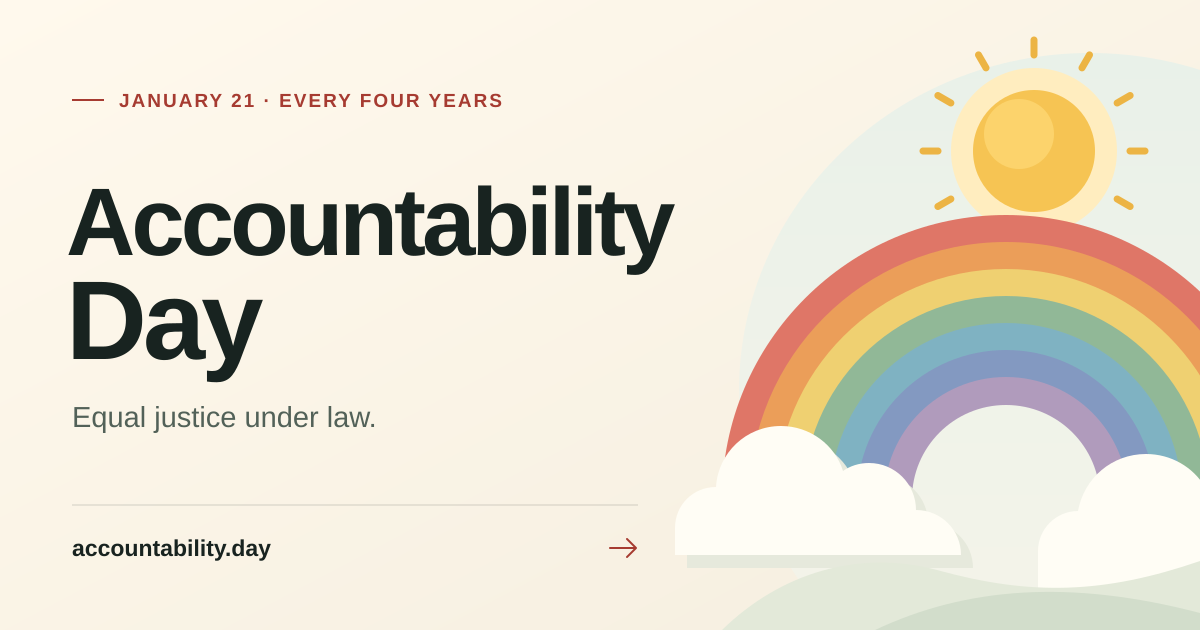
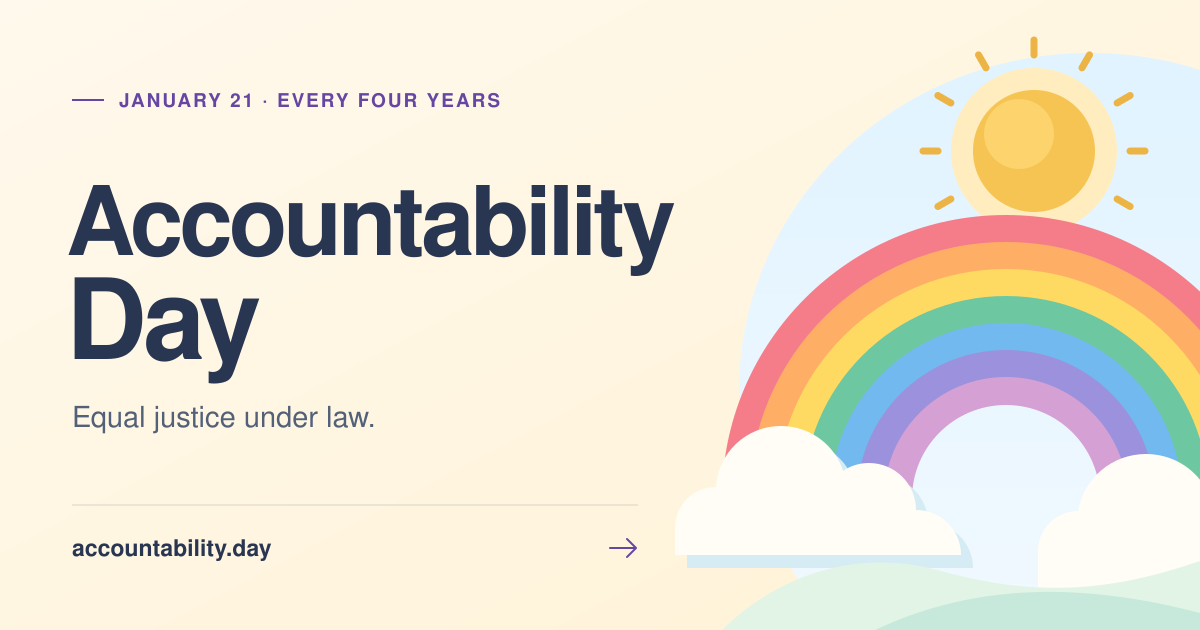
Brighten the site with sunshine and rainbow colors

diff --git a/styles.css b/styles.css
@@ -1,91 +1,112 @@
 :root {
-  --paper: #f2ecdf;
-  --ink: #17201e;
-  --red: #a63b31;
-  --sage: #687970;
-  --night: #182320;
-  --line: rgba(23, 32, 30, 0.25);
+  color-scheme: light;
+  --paper: #fff9ed;
+  --ink: #293652;
+  --muted: #526078;
+  --violet: #6546a3;
+  --coral: #b13f58;
+  --sunshine: #ffda62;
+  --sky: #e9f6ff;
+  --line: #cbd6e4;
+  --rainbow: linear-gradient(90deg, #f57d89, #ffae65, #ffda62, #6dc7a0, #71b9ee, #9b91dc, #d5a0d4);
   --font: Arial, Helvetica, sans-serif;
 }
 
 * { box-sizing: border-box; }
-html { scroll-behavior: smooth; }
+html { scroll-behavior: smooth; scroll-padding-top: 2rem; }
 body { margin: 0; background: var(--paper); color: var(--ink); font-family: var(--font); }
 a { color: inherit; }
+a:focus-visible { outline: 3px solid var(--violet); outline-offset: 6px; border-radius: 3px; }
 .skip-link { position: fixed; left: 1rem; top: -5rem; z-index: 10; padding: .8rem 1rem; background: var(--ink); color: white; }
 .skip-link:focus { top: 1rem; }
 
-.masthead { min-height: 88px; display: flex; align-items: center; justify-content: space-between; padding: 0 4vw; border-bottom: 1px solid var(--line); }
+.masthead { position: relative; min-height: 94px; display: flex; align-items: center; justify-content: space-between; gap: 2rem; padding: 6px 4vw 0; border-bottom: 1px solid var(--line); background: #fffef9; }
+.masthead::before { content: ""; position: absolute; inset: 0 0 auto; height: 6px; background: var(--rainbow); }
 .wordmark { display: flex; gap: .8rem; align-items: center; text-decoration: none; font-weight: 600; font-size: .88rem; letter-spacing: .05em; text-transform: uppercase; }
-.seal { display: grid; place-items: center; width: 34px; height: 34px; border: 1px solid var(--ink); border-radius: 50%; font-size: 1.3rem; }
+.seal { display: grid; place-items: center; flex: 0 0 40px; width: 40px; height: 40px; color: #b77400; }
+.seal svg { display: block; width: 100%; height: 100%; }
 nav { display: flex; gap: 2.2rem; }
 nav a { font-size: .76rem; letter-spacing: .09em; text-decoration: none; text-transform: uppercase; }
-nav a:hover, nav a:focus-visible { text-decoration: underline; text-underline-offset: .4rem; }
+nav a:hover, nav a:focus-visible { color: var(--violet); text-decoration: underline; text-underline-offset: .4rem; }
 
-.hero { min-height: calc(100vh - 88px); display: grid; grid-template-columns: minmax(0, 1.55fr) minmax(310px, .65fr); gap: 7vw; align-items: center; padding: clamp(4rem, 9vw, 9rem) 7vw; }
+.hero { position: relative; isolation: isolate; overflow: hidden; min-height: calc(100svh - 94px); display: grid; grid-template-columns: minmax(0, 1.55fr) minmax(280px, .65fr); gap: 7vw; align-items: center; padding: clamp(4rem, 9vw, 9rem) 7vw; background: linear-gradient(140deg, #fff9ed 20%, #fff7d9 55%, #e5f4ff 100%); }
+.hero-sky { position: absolute; z-index: -1; width: min(55vw, 700px); height: auto; top: 0; right: -2rem; pointer-events: none; }
 .eyebrow, .section-label, .date-card-top, .countdown, footer { text-transform: uppercase; letter-spacing: .1em; }
-.eyebrow { display: flex; align-items: center; gap: 1rem; color: var(--red); font-size: .72rem; }
-.eyebrow::before { content: ""; width: 3rem; border-top: 1px solid var(--red); }
+.eyebrow { display: flex; align-items: center; gap: 1rem; color: var(--violet); font-size: .72rem; font-weight: 600; line-height: 1.6; }
+.eyebrow::before { content: ""; flex: 0 0 2rem; height: 6px; border-radius: 99px; background: var(--rainbow); }
 h1, h2 { font-weight: 600; }
 h1 { max-width: 900px; margin: 1.5rem 0 2rem; font-size: clamp(2.5rem, 5.3vw, 5.5rem); line-height: 1.1; letter-spacing: -.025em; }
+h1 span { color: var(--violet); }
 .dek { max-width: 650px; font-size: clamp(1.125rem, 1.5vw, 1.25rem); line-height: 1.65; }
-.text-link { display: inline-block; margin-top: 2rem; font-size: .75rem; letter-spacing: .08em; text-transform: uppercase; text-underline-offset: .4rem; }
-.text-link span { margin-left: .5rem; color: var(--red); }
+.text-link { display: inline-flex; align-items: center; gap: 1rem; margin-top: 2rem; padding: 1rem 1.4rem; border: 1px solid #c6b4df; border-radius: 99px; background: #f0e6fc; color: #503184; font-size: .75rem; font-weight: 600; letter-spacing: .08em; text-transform: uppercase; text-decoration: none; box-shadow: 0 4px 0 #ddccef; }
+.text-link:hover { background: #e5d4f7; }
+.text-link span { font-size: 1.2rem; }
 
-.date-card { background: var(--night); color: var(--paper); padding: 1.4rem; box-shadow: 16px 16px 0 var(--red); transform: rotate(1deg); }
-.date-card-top { display: flex; justify-content: space-between; border-bottom: 1px solid rgba(242,236,223,.3); padding-bottom: 1rem; font-size: .62rem; }
+.date-card { position: relative; background: var(--sunshine); color: var(--ink); padding: 1.4rem; border: 1px solid #d4a834; border-radius: 20px; box-shadow: 9px 9px 0 #f6a8bb, 18px 18px 0 #bdb0e7; transform: rotate(2deg); }
+.date-card-top { display: flex; justify-content: space-between; gap: .7rem; border-bottom: 1px solid #b58a25; padding-bottom: 1rem; font-size: .62rem; line-height: 1.5; }
 .date-card time { display: grid; justify-items: center; padding: 2rem 0 2.5rem; }
 .month, .year { text-transform: uppercase; letter-spacing: .18em; }
 .month { font-size: 1rem; }
-.day { font-size: clamp(7rem, 12vw, 10rem); line-height: 1.1; font-weight: 600; color: #d55b4d; }
+.day { font-size: clamp(7rem, 12vw, 10rem); line-height: 1.1; font-weight: 600; color: #68419a; }
 .year { font-size: 1.5rem; }
-.countdown { display: flex; justify-content: space-between; border-top: 1px solid rgba(242,236,223,.3); padding-top: 1rem; font-size: .6rem; }
-.countdown strong { font-weight: 400; font-size: 1rem; }
+.countdown { display: flex; justify-content: space-between; gap: .7rem; border-top: 1px solid #b58a25; padding-top: 1rem; font-size: .6rem; }
+.countdown strong { font-weight: 600; font-size: 1rem; }
 .countdown, .day, .year { font-variant-numeric: tabular-nums; }
 
-.rule { display: flex; align-items: center; gap: 1rem; padding: 0 4vw; color: var(--red); }
-.rule span { flex: 1; border-top: 1px solid var(--line); }
+.rule { display: flex; align-items: center; gap: 1rem; padding: 1rem 4vw; color: var(--violet); }
+.rule span { flex: 1; height: 4px; border-radius: 99px; background: var(--rainbow); }
 .rule b { font-size: 1.5rem; }
-.declaration, .principles { display: grid; grid-template-columns: minmax(130px, .3fr) minmax(0, 1.4fr); gap: 5vw; padding: clamp(6rem, 12vw, 12rem) 7vw; }
-.section-label { font-size: .66rem; }
-.section-label span { display: block; color: var(--red); margin-bottom: 1rem; }
+.declaration, .principles { display: grid; grid-template-columns: minmax(130px, .3fr) minmax(0, 1.4fr); gap: 5vw; padding: clamp(5rem, 10vw, 10rem) 7vw; }
+.section-label { font-size: .66rem; line-height: 1.6; }
+.section-label span { display: block; color: var(--violet); font-weight: 600; margin-bottom: 1rem; }
 .section-label p { margin: 0; }
 .declaration h2, .principles h2 { margin: 0 0 2rem; font-size: clamp(2rem, 3.5vw, 3.75rem); line-height: 1.15; letter-spacing: -.02em; }
-.lead { max-width: 880px; margin: 0 0 5rem; font-size: clamp(1.25rem, 2vw, 1.65rem); line-height: 1.6; }
+.lead { max-width: 880px; margin: 0 0 4rem; font-size: clamp(1.25rem, 2vw, 1.65rem); line-height: 1.6; }
 .columns { columns: 2; column-gap: 4rem; max-width: 900px; }
 .columns p { break-inside: avoid; margin: 0; font-size: .95rem; line-height: 1.8; }
 
-.standard { background: var(--night); color: var(--paper); padding: clamp(6rem, 11vw, 10rem) 7vw; }
+.standard { background: var(--sky); color: var(--ink); padding: clamp(5rem, 10vw, 9rem) 7vw; border-block: 1px solid #c7e1ef; }
 .standard-intro { display: grid; grid-template-columns: minmax(130px, .3fr) minmax(0, 1.4fr); gap: 5vw; }
-.section-label.light span { color: #d55b4d; }
-.standard h2 { margin: 0 0 5rem; font-size: clamp(2rem, 3.5vw, 3.75rem); line-height: 1.15; letter-spacing: -.02em; }
-.steps { list-style: none; margin: 0 0 0 calc(20% + 5vw); padding: 0; border-top: 1px solid rgba(242,236,223,.25); }
-.steps li { display: grid; grid-template-columns: 70px 1fr; gap: 2rem; padding: 2rem 0; border-bottom: 1px solid rgba(242,236,223,.25); }
-.step-number { color: #d55b4d; font-size: 1.5rem; }
-.steps h3 { margin: 0 0 .6rem; font-size: 1.35rem; font-weight: 600; }
-.steps p { max-width: 650px; margin: 0; color: #c9c7bd; line-height: 1.7; }
+.standard h2 { margin: 0 0 4rem; font-size: clamp(2rem, 3.5vw, 3.75rem); line-height: 1.15; letter-spacing: -.02em; }
+.steps { list-style: none; margin: 0 0 0 calc(20% + 5vw); padding: 0; display: grid; gap: 1rem; }
+.steps li { --step-color: #b13f58; --step-tint: #ffe6eb; display: grid; grid-template-columns: 54px 1fr; gap: 1.5rem; padding: 2rem; border: 1px solid #c7dce9; border-left: 5px solid var(--step-color); border-radius: 16px; background: #fffef9; }
+.steps li:nth-child(2) { --step-color: #936000; --step-tint: #fff0be; }
+.steps li:nth-child(3) { --step-color: #23765b; --step-tint: #ddf4e9; }
+.steps li:nth-child(4) { --step-color: #6546a3; --step-tint: #eee5fa; }
+.step-number { display: grid; place-items: center; align-self: start; width: 48px; height: 48px; border-radius: 50%; background: var(--step-tint); color: var(--step-color); font-size: 1.2rem; }
+.steps h3 { margin: .3rem 0 .6rem; font-size: 1.35rem; font-weight: 600; }
+.steps p { max-width: 650px; margin: 0; color: var(--muted); line-height: 1.7; }
 
-.principles { padding-bottom: clamp(7rem, 14vw, 14rem); }
-.principle-grid { display: grid; grid-template-columns: 1fr 1fr; border-top: 1px solid var(--line); border-left: 1px solid var(--line); }
-.principle-grid article { min-height: 270px; padding: 2rem; border-right: 1px solid var(--line); border-bottom: 1px solid var(--line); }
-.principle-grid span { color: var(--red); font-size: .65rem; }
-.principle-grid h3 { margin: 3rem 0 1rem; font-size: 1.5rem; font-weight: 600; }
+.principles { background: #fffef9; }
+.principle-grid { display: grid; grid-template-columns: 1fr 1fr; gap: 1rem; }
+.principle-grid article { --tile-color: #b13f58; min-height: 270px; padding: 2rem; border: 1px solid #eabac4; border-top: 5px solid var(--tile-color); border-radius: 16px; background: #fff0f3; }
+.principle-grid article:nth-child(2) { --tile-color: #936000; border-color: #e5ce82; background: #fff6d6; }
+.principle-grid article:nth-child(3) { --tile-color: #23765b; border-color: #a5d5bf; background: #eaf8ef; }
+.principle-grid article:nth-child(4) { --tile-color: #6546a3; border-color: #d0bce9; background: #f2ebfc; }
+.principle-grid span { color: var(--tile-color); font-size: .7rem; font-weight: 600; }
+.principle-grid h3 { margin: 2.5rem 0 1rem; font-size: 1.5rem; font-weight: 600; }
 .principle-grid p { max-width: 330px; margin: 0; line-height: 1.6; }
 
-.closing { padding: clamp(7rem, 15vw, 15rem) 7vw; background: var(--red); color: var(--paper); text-align: center; }
+.closing { position: relative; padding: clamp(6rem, 12vw, 11rem) 7vw; background: linear-gradient(120deg, #ffe79b, #ffefd0 42%, #f6dce9 72%, #e5dcf7); color: var(--ink); text-align: center; }
+.closing::before { content: ""; position: absolute; inset: 0 0 auto; height: 7px; background: var(--rainbow); }
 .closing h2 { margin: 0; font-size: clamp(2.25rem, 4.5vw, 4.5rem); line-height: 1.2; letter-spacing: -.02em; }
-.closing p { margin: 3rem 0 0; font-size: .7rem; letter-spacing: .15em; text-transform: uppercase; }
-footer { display: grid; grid-template-columns: 1fr 2fr auto; gap: 2rem; padding: 2rem 4vw; background: #111816; color: var(--paper); font-size: .6rem; }
+.closing p { margin: 3rem 0 0; color: #503184; font-size: .85rem; font-weight: 600; letter-spacing: .15em; text-transform: uppercase; }
+footer { display: grid; grid-template-columns: 1fr 2fr auto; gap: 2rem; padding: 2rem 4vw; background: #eee5fa; color: #503184; font-size: .6rem; line-height: 1.6; }
 footer p { margin: 0; }
+footer a { text-underline-offset: .3rem; }
 
-.not-found { min-height: 100vh; display: grid; align-content: center; padding: 8vw; }
+.not-found { position: relative; isolation: isolate; min-height: 100svh; display: grid; align-content: center; justify-items: start; padding: 8vw; background: linear-gradient(140deg, #fff9ed, #e9f6ff); }
+.not-found::before { content: ""; position: absolute; z-index: -1; inset: 0; background: url("sunshine.svg") top right / min(50vw, 640px) auto no-repeat; opacity: .35; }
 .not-found h1 { max-width: 950px; }
 .not-found .dek { margin: 0; }
 
 @media (max-width: 800px) {
+  .masthead { min-height: 88px; }
   nav { display: none; }
-  .hero { min-height: auto; grid-template-columns: 1fr; padding: 5rem 7vw 7rem; }
-  .date-card { max-width: 440px; margin-top: 2rem; }
+  .hero { min-height: auto; grid-template-columns: 1fr; gap: 3rem; padding: 4rem 7vw 5rem; }
+  .hero-sky { width: min(90vw, 550px); top: auto; bottom: 12rem; right: -3rem; }
+  .hero-copy { position: relative; }
+  .date-card { width: min(100%, 400px); justify-self: center; margin-top: 2rem; }
   .declaration, .principles, .standard-intro { grid-template-columns: 1fr; }
   .section-label { display: flex; gap: 1rem; }
   .section-label span { margin: 0; }
@@ -93,7 +114,16 @@ footer p { margin: 0; }
   .columns p + p { margin-top: 1.5rem; }
   .steps { margin-left: 0; }
   .principle-grid { grid-template-columns: 1fr; }
-  footer { grid-template-columns: 1fr; }
+  .principle-grid article { min-height: auto; }
+  footer { grid-template-columns: 1fr; gap: 1rem; }
+}
+
+@media (max-width: 400px) {
+  .wordmark { gap: .5rem; font-size: .76rem; }
+  h1 { font-size: 2.2rem; }
+  .steps li { grid-template-columns: 38px 1fr; gap: 1rem; padding: 1.3rem; }
+  .step-number { width: 36px; height: 36px; font-size: 1rem; }
+  .steps h3 { font-size: 1.15rem; }
 }
 
 @media (prefers-reduced-motion: reduce) { html { scroll-behavior: auto; } }

diff --git a/index.html b/index.html
@@ -4,7 +4,7 @@
     <meta charset="utf-8">
     <meta name="viewport" content="width=device-width, initial-scale=1">
     <meta name="description" content="Accountability Day is January 21 every four years, the day after the U.S. presidential inauguration. It supports public accountability and equal justice under law.">
-    <meta name="theme-color" content="#f2ecdf">
+    <meta name="theme-color" content="#fff9ed">
     <meta property="og:title" content="Accountability Day | January 21">
     <meta property="og:description" content="January 21 every four years. A day for public accountability and equal justice under law.">
     <meta property="og:type" content="website">
@@ -31,7 +31,9 @@
 
     <header class="masthead">
       <a class="wordmark" href="#top" aria-label="Accountability Day home">
-        <span class="seal" aria-hidden="true">A</span>
+        <span class="seal" aria-hidden="true">
+          <svg viewBox="0 0 40 40" fill="none"><g stroke="currentColor" stroke-width="2.5" stroke-linecap="round"><path d="M20 3v4m0 26v4M3 20h4m26 0h4M8 8l3 3m18 18 3 3M8 32l3-3m18-18 3-3"/><circle cx="20" cy="20" r="8" fill="currentColor" stroke="none"/></g></svg>
+        </span>
         <span>Accountability Day</span>
       </a>
       <nav aria-label="Primary navigation">
@@ -43,9 +45,10 @@
 
     <main id="main">
       <section class="hero" id="top" aria-labelledby="hero-title">
+        <img class="hero-sky" src="sunshine.svg" alt="" aria-hidden="true" width="640" height="520">
         <div class="hero-copy">
           <p class="eyebrow">January 21 · Every four years</p>
-          <h1 id="hero-title">Accountability Day</h1>
+          <h1 id="hero-title">Accountability <span>Day</span></h1>
           <p class="dek">A day to review the outgoing U.S. administration's record and support equal justice under law.</p>
           <a class="text-link" href="#meaning">About the day <span aria-hidden="true">↓</span></a>
         </div>

diff --git a/404.html b/404.html
@@ -3,7 +3,7 @@
   <head>
     <meta charset="utf-8">
     <meta name="viewport" content="width=device-width, initial-scale=1">
-    <meta name="theme-color" content="#f2ecdf">
+    <meta name="theme-color" content="#fff9ed">
     <title>Page not found | Accountability Day</title>
     <link rel="icon" href="/favicon.svg" type="image/svg+xml">
     <link rel="stylesheet" href="/styles.css">

diff --git a/AGENTS.md b/AGENTS.md
@@ -1,0 +1,3 @@
+# Working agreements
+
+After each completed task, run the appropriate checks, commit the task's changes, and push to `main`. Keep unrelated changes out of the commit and never force-push.
